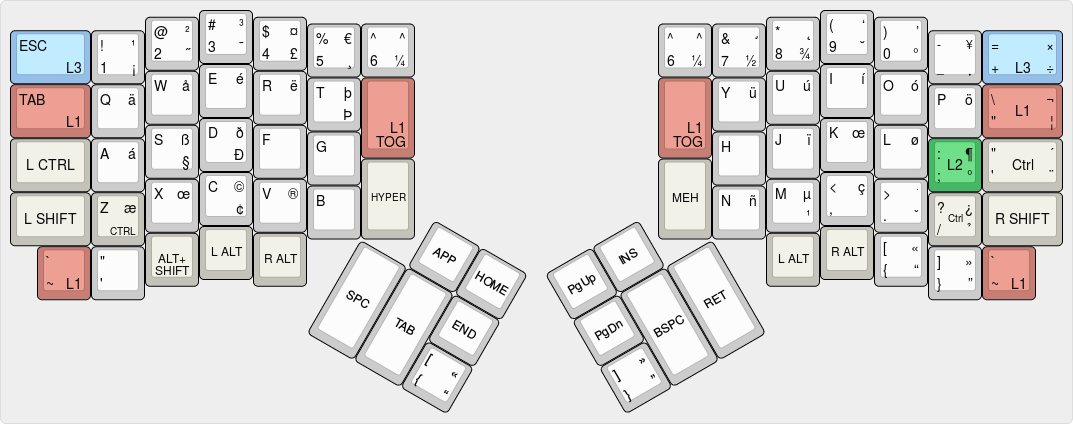
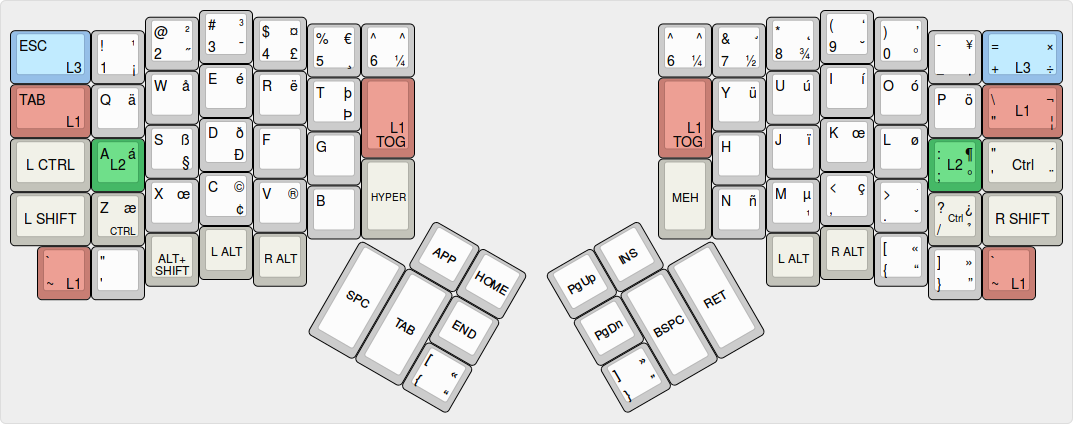
[deadcyclo layout] Added support for ergodox ez shine

diff --git a/keyboards/ergodox/keymaps/deadcyclo/keymap.c b/keyboards/ergodox/keymaps/deadcyclo/keymap.c
@@ -45,7 +45,7 @@ const uint16_t PROGMEM keymaps[][MATRIX_ROWS][MATRIX_COLS] = {
         // left hand
 		LT(NAVG,KC_ESC),         KC_1,         KC_2,   KC_3,   KC_4,   KC_5,   KC_6,
         LT(SYMB,KC_TAB),        KC_Q,         KC_W,   KC_E,   KC_R,   KC_T,   TG(SYMB),
-        KC_LCTL,        KC_A,         KC_S,   KC_D,   KC_F,   KC_G,
+        KC_LCTL,        LT(MDIA, KC_A),         KC_S,   KC_D,   KC_F,   KC_G,
         KC_LSFT,        CTL_T(KC_Z),  KC_X,   KC_C,   KC_V,   KC_B,   ALL_T(KC_NO),
         LT(SYMB,KC_GRV),KC_QUOT,      LALT(KC_LSFT),  KC_RALT,KC_LALT,
                                               ALT_T(KC_APP),  KC_HOME,
@@ -75,11 +75,11 @@ const uint16_t PROGMEM keymaps[][MATRIX_ROWS][MATRIX_COLS] = {
  *   |      |      |      |      |      |                                       |      |    . |   0  |   =  |      |
  *   `----------------------------------'                                       `----------------------------------'
  *                                        ,-------------.       ,-------------.
- *                                        |      |      |       |      |      |
+ *                                        |Toggle|Animat|       | Hue+ | Hue- |
  *                                 ,------|------|------|       |------+------+------.
- *                                 |      |      |      |       |      |      |      |
- *                                 |      |      |------|       |------| DEL  |      |
- *                                 |      |      |      |       |      |      |      |
+ *                                 |Bright|Bright|Solid |       |      |      |      |
+ *                                 |ness- |ness+ |------|       |------| DEL  |      |
+ *                                 |      |      |      |       | EPRM |      |      |
  *                                 `--------------------'       `--------------------'
  */
 // SYMBOLS
@@ -90,18 +90,18 @@ const uint16_t PROGMEM keymaps[][MATRIX_ROWS][MATRIX_COLS] = {
        KC_TRNS,KC_HASH,KC_DLR, KC_LPRN,KC_RPRN,KC_GRV,
        KC_TRNS,KC_PERC,KC_CIRC,KC_LBRC,KC_RBRC,KC_TILD,KC_TRNS,
        KC_TRNS,KC_TRNS,KC_TRNS,KC_TRNS,KC_TRNS,
-                                       KC_TRNS,KC_TRNS,
-                                               KC_TRNS,
-                               KC_TRNS,KC_TRNS,KC_TRNS,
+                                       RGB_TOG,RGB_MOD,
+                                               RGB_SLD,
+                               RGB_VAD,RGB_VAI,KC_TRNS,
        // right hand
        KC_F6, KC_F7,   KC_F8,  KC_F9,   KC_F10,   KC_F11,  KC_F12,
        KC_TRNS, KC_UP,   KC_7,   KC_8,    KC_9,    KC_ASTR, KC_TRNS,
                 KC_DOWN, KC_4,   KC_5,    KC_6,    KC_PLUS, KC_TRNS,
        KC_TRNS, KC_AMPR, KC_1,   KC_2,    KC_3,    KC_BSLS, KC_TRNS,
                          KC_TRNS,KC_DOT,  KC_0,    KC_EQL,  KC_TRNS,
-       KC_TRNS, KC_TRNS,
+       RGB_HUD, RGB_HUI,
        KC_TRNS,
-       KC_TRNS, KC_DEL, KC_TRNS
+       EPRM, KC_DEL, KC_TRNS
 ),
 /* Keymap 2: Media and mouse keys
  *
@@ -254,12 +254,21 @@ void matrix_scan_user(void) {
     switch (layer) {
     case 1:
       ergodox_right_led_1_on();
+      #ifdef RGBLIGHT_ENABLE
+      rgblight_setrgb(0xff,0x00,0x00);
+      #endif
       break;
     case 2:
       ergodox_right_led_2_on();
+      #ifdef RGBLIGHT_ENABLE
+      rgblight_setrgb(0x00,0xff,0x00);
+      #endif
       break;
     case 3:
       ergodox_right_led_3_on();
+      #ifdef RGBLIGHT_ENABLE
+       rgblight_setrgb(0x00,0x00,0xff);
+      #endif
       break;
     case 4:
       ergodox_right_led_1_on(); // TODO: Make a fourth layer

diff --git a/keyboards/ergodox/keymaps/deadcyclo/readme.md b/keyboards/ergodox/keymaps/deadcyclo/readme.md
@@ -1,9 +1,11 @@
 # ErgoDox EZ 1337 configuration
 
-Custom layout based on the default layout. Intended for interational users of us intl-altgr layout. Note that
-some common keys might be missing, as this layout is intented to be used on *nix systems by users familiar
-with their system. The layout is geared towards avoiding using the rat (mouse for those of you who are
-unfamiliar with tiling window managers) as much as possibly.
+Custom layout based on the default layout. Intended for interational
+users of us intl-altgr layout. Note that some common keys might be
+missing, as this layout is intented to be used on *nix systems by
+users familiar with their system. The layout is geared towards
+avoiding using the rat (mouse for those of you who are unfamiliar with
+tiling window managers) as much as possibly.
 
 # Layouts
 
@@ -12,6 +14,19 @@ All layer images created using [keyboard-layout-editor](http://www.keyboard-layo
 ## Base layer
 
 [![Base layer](images/deadcyclo-base-layout.png)](http://www.keyboard-layout-editor.com/#/gists/0321b18620180a3e46c498206eb65366)
+
+The base layer here is marked with the us international alt-gr layout,
+including characters bound to what on an iso keyboard would be alt-gr
+and on an ansi keyboard right alt.
+
+Regular (and irregular) modifier keys are marked with a yellowish
+gray. Layer moderators are marked with blue, red and green, which are
+the same colors each layer displays on the LEDs when active.
+
+All of the layer switch keys, except for the two center keys marked L1
+TOG, are dual purpose. Hence for example the top left key produces ESC
+if tapped, and temporarilly toggles L3 when hold down. The two center
+L1 TOG keys toggle L1 on and off for more permanent layer toggling.
 
 ## Layer 1 - Symbols
 
@@ -29,8 +44,10 @@ All layer images created using [keyboard-layout-editor](http://www.keyboard-layo
 
 - 02.01.2017 Added delete key on second layer
 - 10.01.2017 Added layer images to readme
+- 24.01.2017 Added support for Ergodox Shine. Added secondary L2 switch key on left hand
 
 # TODO
 
 - Add unicode support (direct input and indirect? see algernon layout for examples)
 - Add descriptions below each layer image of any special functions/keys
+- Move Navigation keys to Layer 2 on right side, add a layer switch to L2 on left side as well, and use L3 for unicode stuff
